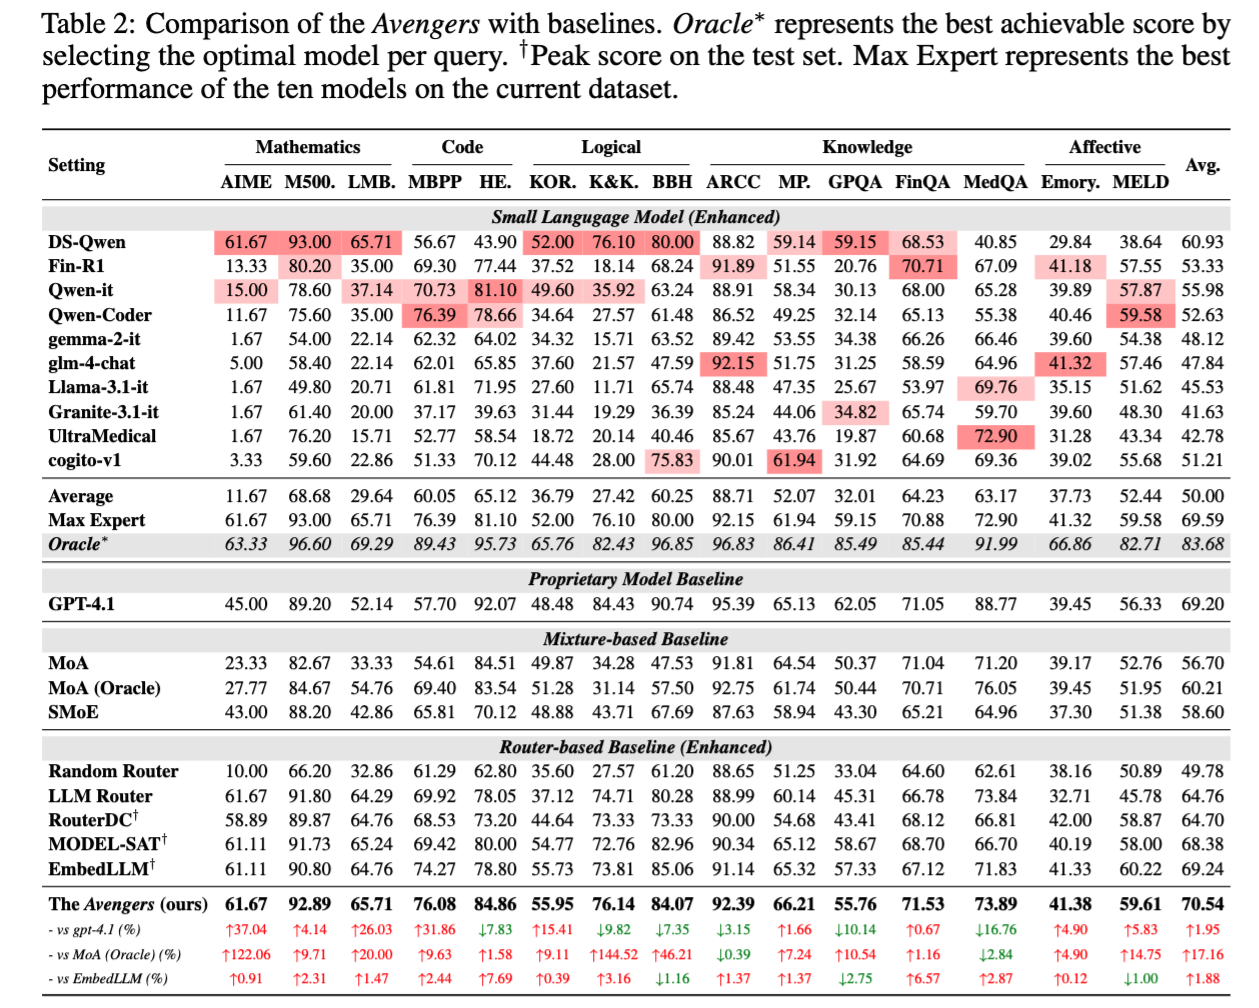
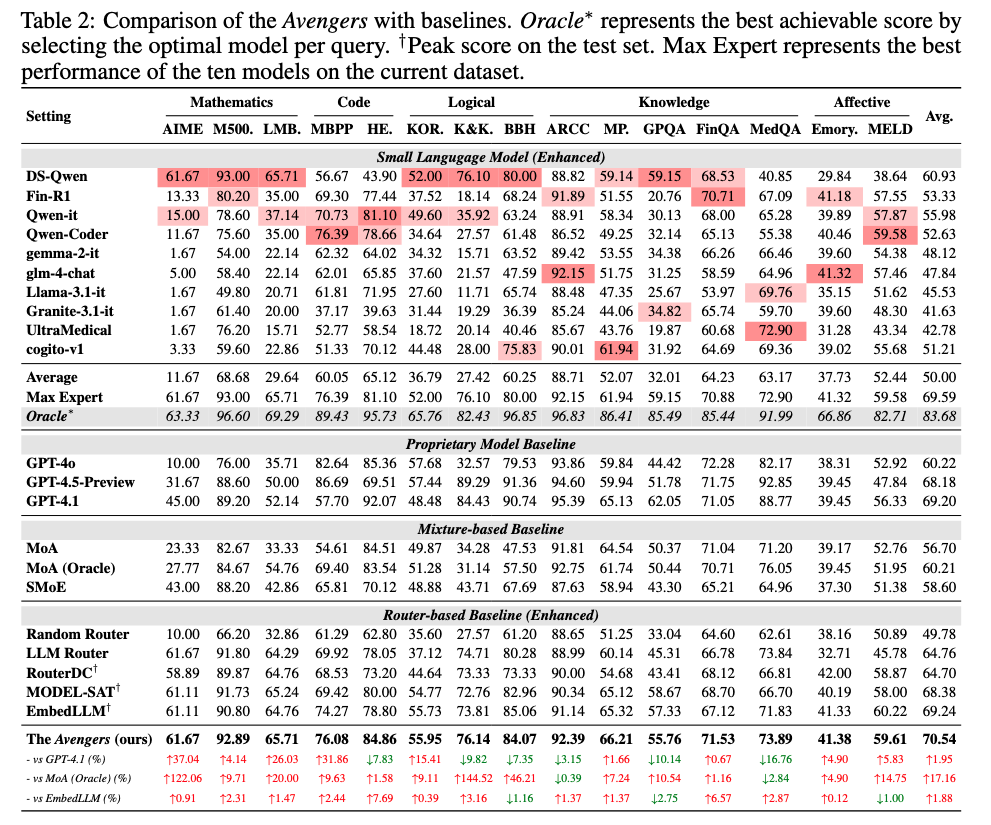
Enhance README with new figure and updated performance claims for the Avengers model

diff --git a/README.md b/README.md
@@ -15,8 +15,15 @@
 
 
 ## Abstract
+<div align="center">
+<img src="./assets/figure1.png" alt="Main Results" width="850">
+<p><em><strong>Figure 1:</strong> Comparison of proprietary models with our method (the Avengers) across six representative
+benchmarks. Full results on all 15 benchmarks are reported in Table 2</em></p>
+</div>
 
-The *Avengers* is a simple recipe that effectively leverages the *collective intelligence* of open-source, smaller language models. As of May 2025, with 10 open-source models (～7B parameters each), the *Avengers* collectively outperforms GPT-4.1 (OpenAI’s flagship model released on April 14, 2025) on 10 out of 15 representative datasets.
+The *Avengers* is a simple recipe that effectively leverages the *collective intelligence* of open-source, smaller language models. 
+Remarkably, **with 10 open-source models (∼7B parameters each), the Avengers surpasses GPT-4o, 4.1, and 4.5 in average performance across 15 diverse datasets spanning mathematics, coding, logical reasoning, general knowledge, and affective tasks**. 
+As of May 2025, with 10 open-source models (～7B parameters each), the *Avengers* collectively outperforms GPT-4.1 (OpenAI’s flagship model released on April 14, 2025) on 9 out of 15 representative datasets.
 
 ## Highlights
 
